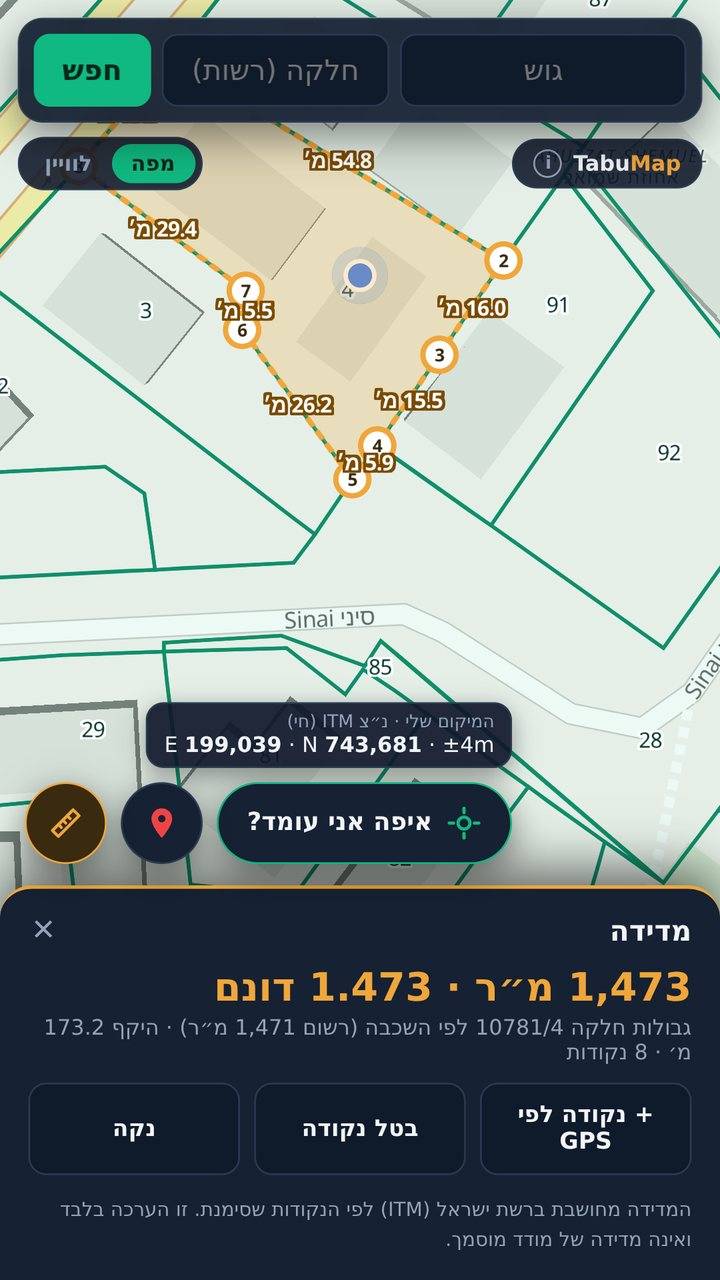
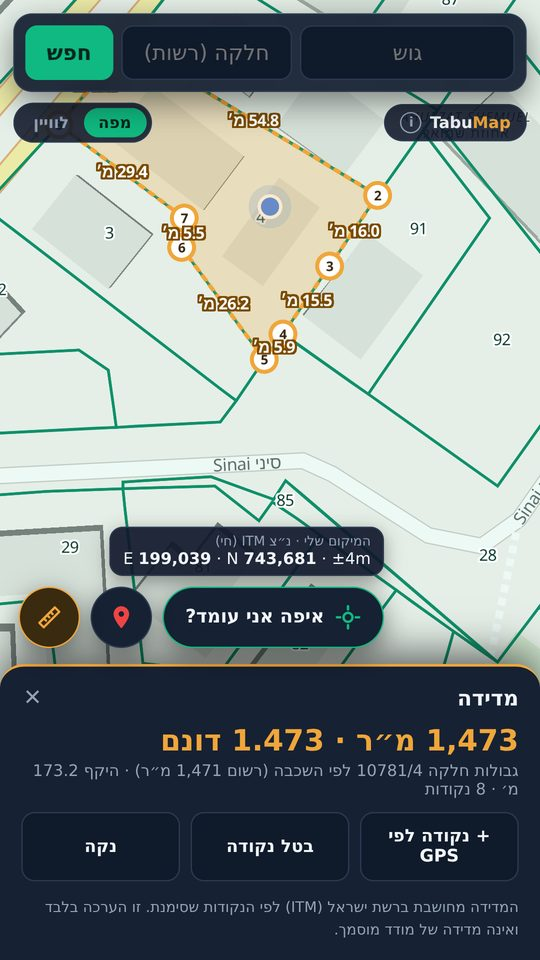
Same four screenshots in Hebrew, Arabic and English (from the store screenshots), same layout in every language
Claude-Session: https://claude.ai/code/session_01VLMtTQRjDsVcj3vmxAjvCp

diff --git a/index.html b/index.html
@@ -59,11 +59,7 @@ html[lang="he"] [data-l]:not([data-l="he"]),html[lang="en"] [data-l]:not([data-l
 
 <div class="vid" data-yt="v6cDAliESLg" style="background-image:url(img/promo-poster.jpg)" role="button" tabindex="0" aria-label="צפו בסרטון TabuMap"><button class="pl" aria-label="Play"></button><small>צפו בסרטון · 36 שניות · נטען מ-YouTube בלחיצה</small></div>
 
-<div class="shots">
- <img src="img/01-sat-he.jpg?v=1" alt="איתור חלקה לפי GPS על תצלום לוויין, עם נ״צ רשת ישראל"><img src="img/02-plans-he.jpg?v=3" alt="ייעוד הקרקע והתוכניות שחלות על החלקה"><img src="img/03-measure-he.jpg?v=3" alt="מדידת החלקה: אורך כל צלע, היקף ושטח בדונם"><img src="img/04-pins-he.jpg?v=3" alt="המיקומים שלי: נעצים עם נ״צ וגוש/חלקה">
-</div>
-<p class="shotsrc" dir="ltr">Satellite imagery: Powered by Esri · Esri, Maxar, Earthstar Geographics, and the GIS User Community</p>
-
+<div class="shots"><img src="img/01-gps-he.jpg" alt="איפה אני עומד: גוש וחלקה לפי GPS, עם נ״צ רשת ישראל"><img src="img/02-plans-he.jpg" alt="ייעוד הקרקע והתוכניות שחלות על החלקה"><img src="img/03-measure-he.jpg" alt="מדידת החלקה: אורך כל צלע, היקף ושטח בדונם"><img src="img/04-pins-he.jpg" alt="המיקומים שלי: נעצים עם נ״צ וגוש/חלקה"></div>
 
 <div class="grid">
  <div class="f"><span>📍</span><b>איפה אני עומד?</b><p>לחיצה אחת מוצאת את הגוש והחלקה לפי ה-GPS. כשאתם קרובים לגבול, האפליקציה מציגה גם את החלקות הסמוכות.</p></div>
@@ -89,6 +85,7 @@ html[lang="he"] [data-l]:not([data-l="he"]),html[lang="en"] [data-l]:not([data-l
 </div>
 
 <div class="vid" data-yt="v6cDAliESLg" style="background-image:url(img/promo-poster.jpg)" role="button" tabindex="0" aria-label="شاهد الفيديو – TabuMap"><button class="pl" aria-label="Play"></button><small>شاهد الفيديو · 36 ثانية · يُحمَّل من YouTube عند الضغط</small></div>
+ <div class="shots"><img src="img/01-gps-ar.jpg" alt="أين أقف: الحوض والقسيمة حسب GPS مع إحداثيات الشبكة الإسرائيلية"><img src="img/02-plans-ar.jpg" alt="تخصيص الأرض والمخططات السارية على القسيمة"><img src="img/03-measure-ar.jpg" alt="قياس القسيمة: طول كل ضلع والمحيط والمساحة بالدونم"><img src="img/04-pins-ar.jpg" alt="مواقعي: دبابيس مع الإحداثيات والحوض/القسيمة"></div>
  <div class="grid">
   <div class="f"><span>📍</span><b>أين أنا؟</b><p>ضغطة واحدة تجد الحوض والقسيمة حسب GPS. عندما تكون قريبًا من الحدود يعرض التطبيق القسائم المجاورة أيضًا.</p></div>
   <div class="f"><span>🔎</span><b>البحث عن حوض وقسيمة</b><p>اكتب رقم الحوض، أو الحوض والقسيمة، وانتقل مباشرة إلى القسيمة على الخريطة. القسيمة الملغاة أو المدموجة تظهر بعلامة خاصة.</p></div>

diff --git a/README.md b/README.md
@@ -22,7 +22,7 @@ The app code and data pipeline live in the private repo `RabieMan/tabumap-app`. 
 | `privacy.html` | Privacy policy (he/ar/en, `?lang=he\|ar\|en` shows one): no sign-up, location used on the device only, external services listed (incl. the Street View link) |
 | `terms.html` | Terms of use (he/ar/en): not professional advice, boundaries are illustrative, data accuracy, liability |
 | `licenses.html` | Third-party notices: MapLibre GL, PMTiles, mapbox-gl-rtl-text, Survey of Israel data, OpenFreeMap/OSM, Esri |
-| `img/` | App icon, RabieMan Labs logo, screenshots in Hebrew (`01-sat-he.jpg`, `02-plans-he.jpg`, `03-measure-he.jpg`, `04-pins-he.jpg`) and English (`01-gps-en.jpg` … `04-pins-en.jpg`); Arabic screenshots still to come |
+| `img/` | App icon, RabieMan Labs logo, the same four screenshots in every language (`01-gps`, `02-plans`, `03-measure`, `04-pins`, each `-he` / `-ar` / `-en`), taken from the store screenshots (the "Store screenshots" workflow in tabumap-app, branches `store-shots`, `store-shots-en`, `store-shots-ar`) |
 | `.github/workflows/publish-landing.yml` | Copies landing edits from `main` into `gh-pages` |
 
 Features listed on the landing page: GPS parcel lookup with nearby-parcel warning, block/parcel search, parcel card,
